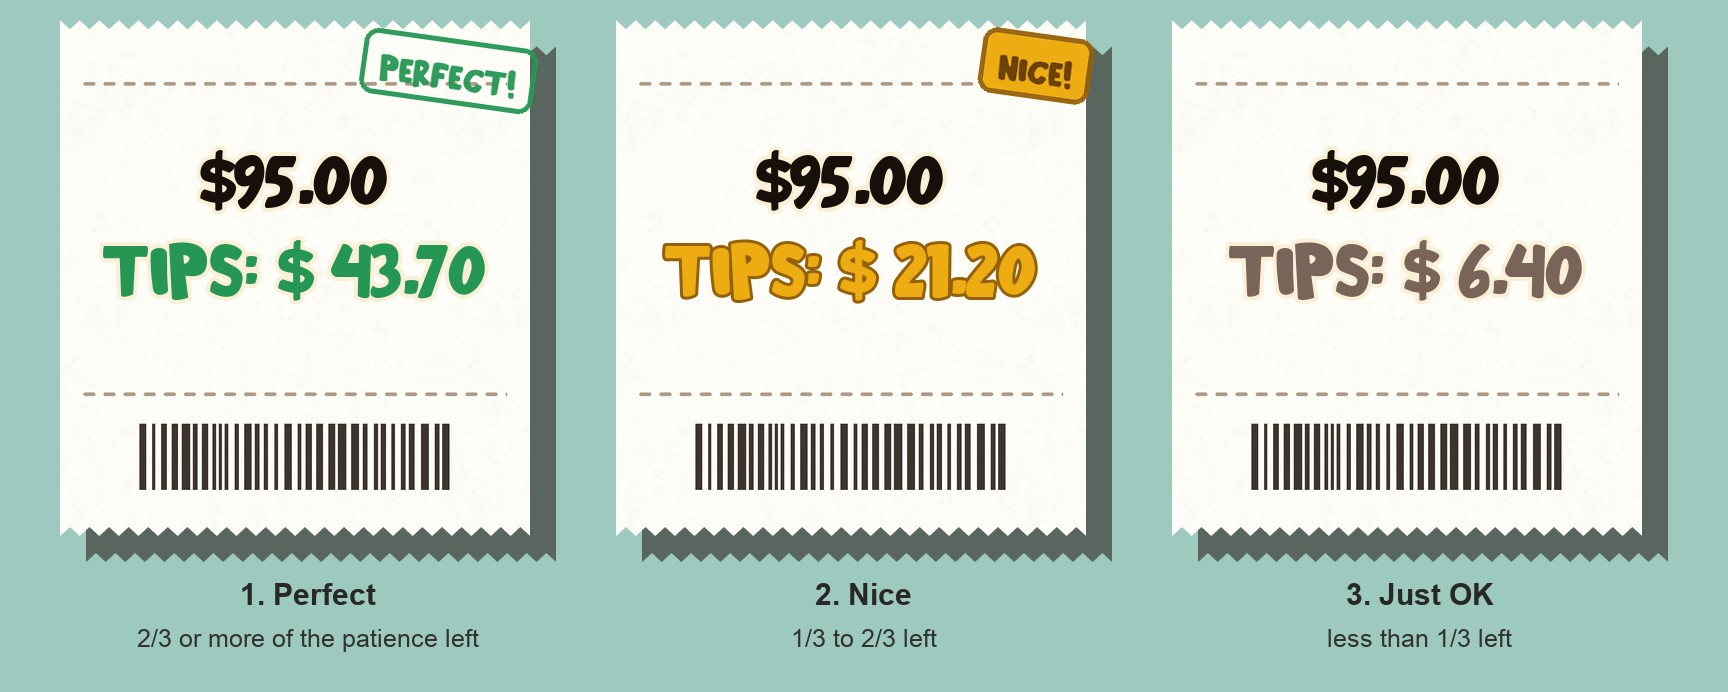
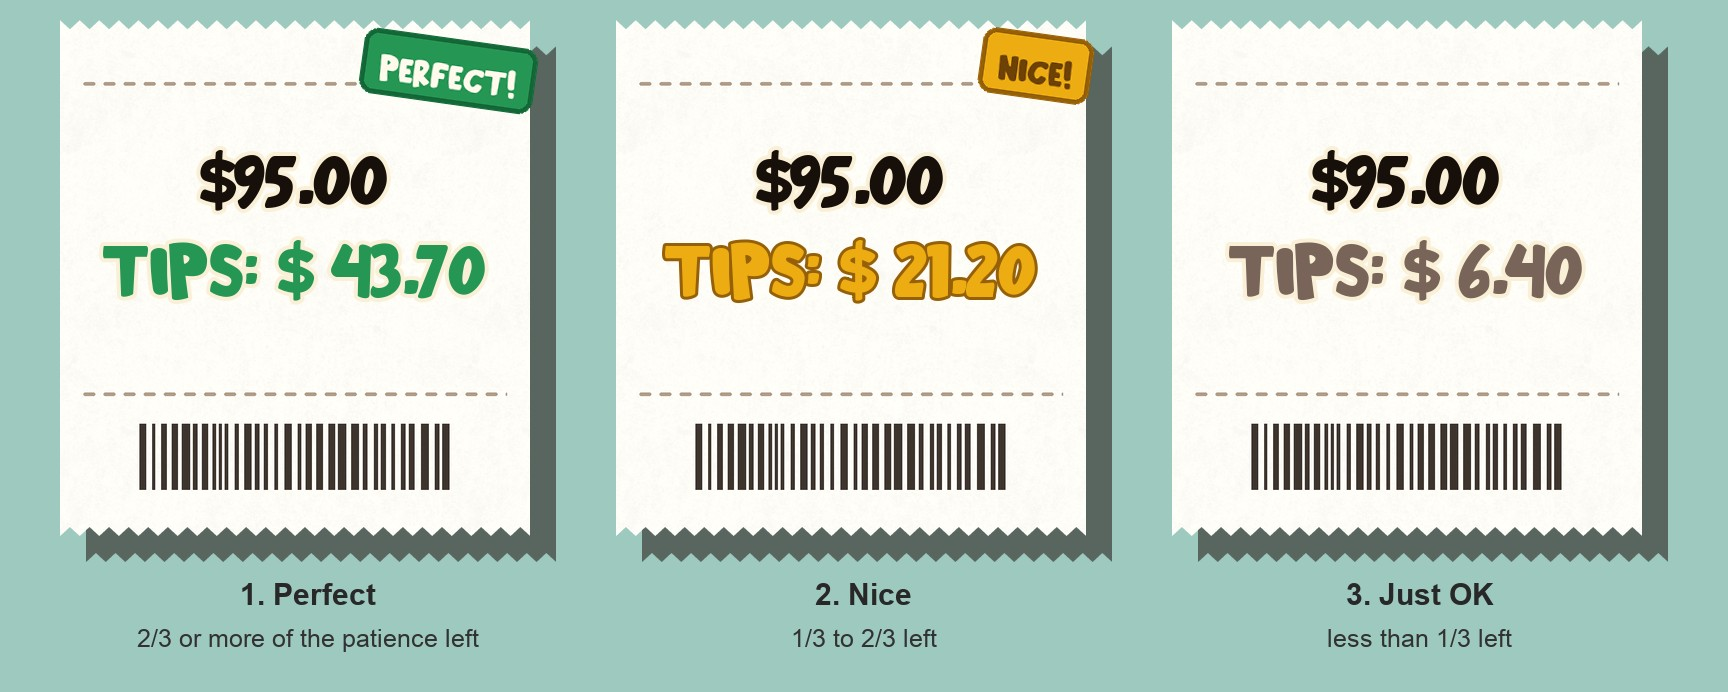
Report: the Perfect stamp is a filled tag like Nice's (owner)

Changed region(s): [[0.1875, 0.0303, 0.3125, 0.1821]]

diff --git a/Docs/tools/report_page/index.html b/Docs/tools/report_page/index.html
@@ -152,10 +152,10 @@ h3 small{font-weight:600;color:var(--soft);font-size:13px;margin-left:6px}
 
 <div class="card">
 <p style="margin-top:0"><b>Tip levels: a proposal.</b> <small>A drawing; not built.</small></p>
-<figure><img src="tip_levels.jpg" alt="Three receipts, each with $95.00 and a tips line. Perfect: the tips line in green and a green PERFECT! stamp at the corner. Nice: the tips line in yellow with a brown edge and a yellow NICE! stamp. Just OK: the tips line in grey-brown, no stamp"><figcaption>The receipt at the three levels.</figcaption></figure>
+<figure><img src="tip_levels.jpg" alt="Three receipts, each with $95.00 and a tips line. Perfect: the tips line in green and a filled green PERFECT! tag with cream letters at the corner. Nice: the tips line in yellow with a brown edge and a yellow NICE! stamp. Just OK: the tips line in grey-brown, no stamp"><figcaption>The receipt at the three levels.</figcaption></figure>
 <ul>
 <li><b>The level is how much of the customer's patience is left when the order is finished:</b> Perfect = two thirds or more, Nice = between one and two thirds, Just OK = less than a third. In chapter 1 that reads straight off the flowers: all three still up, two left, one left.</li>
-<li><b>Colours, as you said:</b> Perfect is green, its stamp and its tips line; Nice is yellow, its stamp and its tips line (your word, instead of Fast); Just OK stays plain grey-brown with no stamp. The yellow letters carry a thin brown edge, or they would not read on the white paper.</li>
+<li><b>Colours, as you said:</b> Perfect is green, its tips line and its stamp, the stamp now a filled tag like Nice's; Nice is yellow, its stamp and its tips line (your word, instead of Fast); Just OK stays plain grey-brown with no stamp. The yellow letters carry a thin brown edge, or they would not read on the white paper.</li>
 <li><b>The receipt itself</b> is now drawn as in the game. You were right: my first drawing had the two lines too small, which left an empty band under the tips. Measured on a capture, the lines fill the space between the dashed lines, as here.</li>
 <li><b>The money does not change:</b> the tip is still price x seconds left; the colour only names what the player already earned.</li>
 <li>Today's "perfect" sound and double tap (at half the patience left) would move to the new Perfect line.</li>
